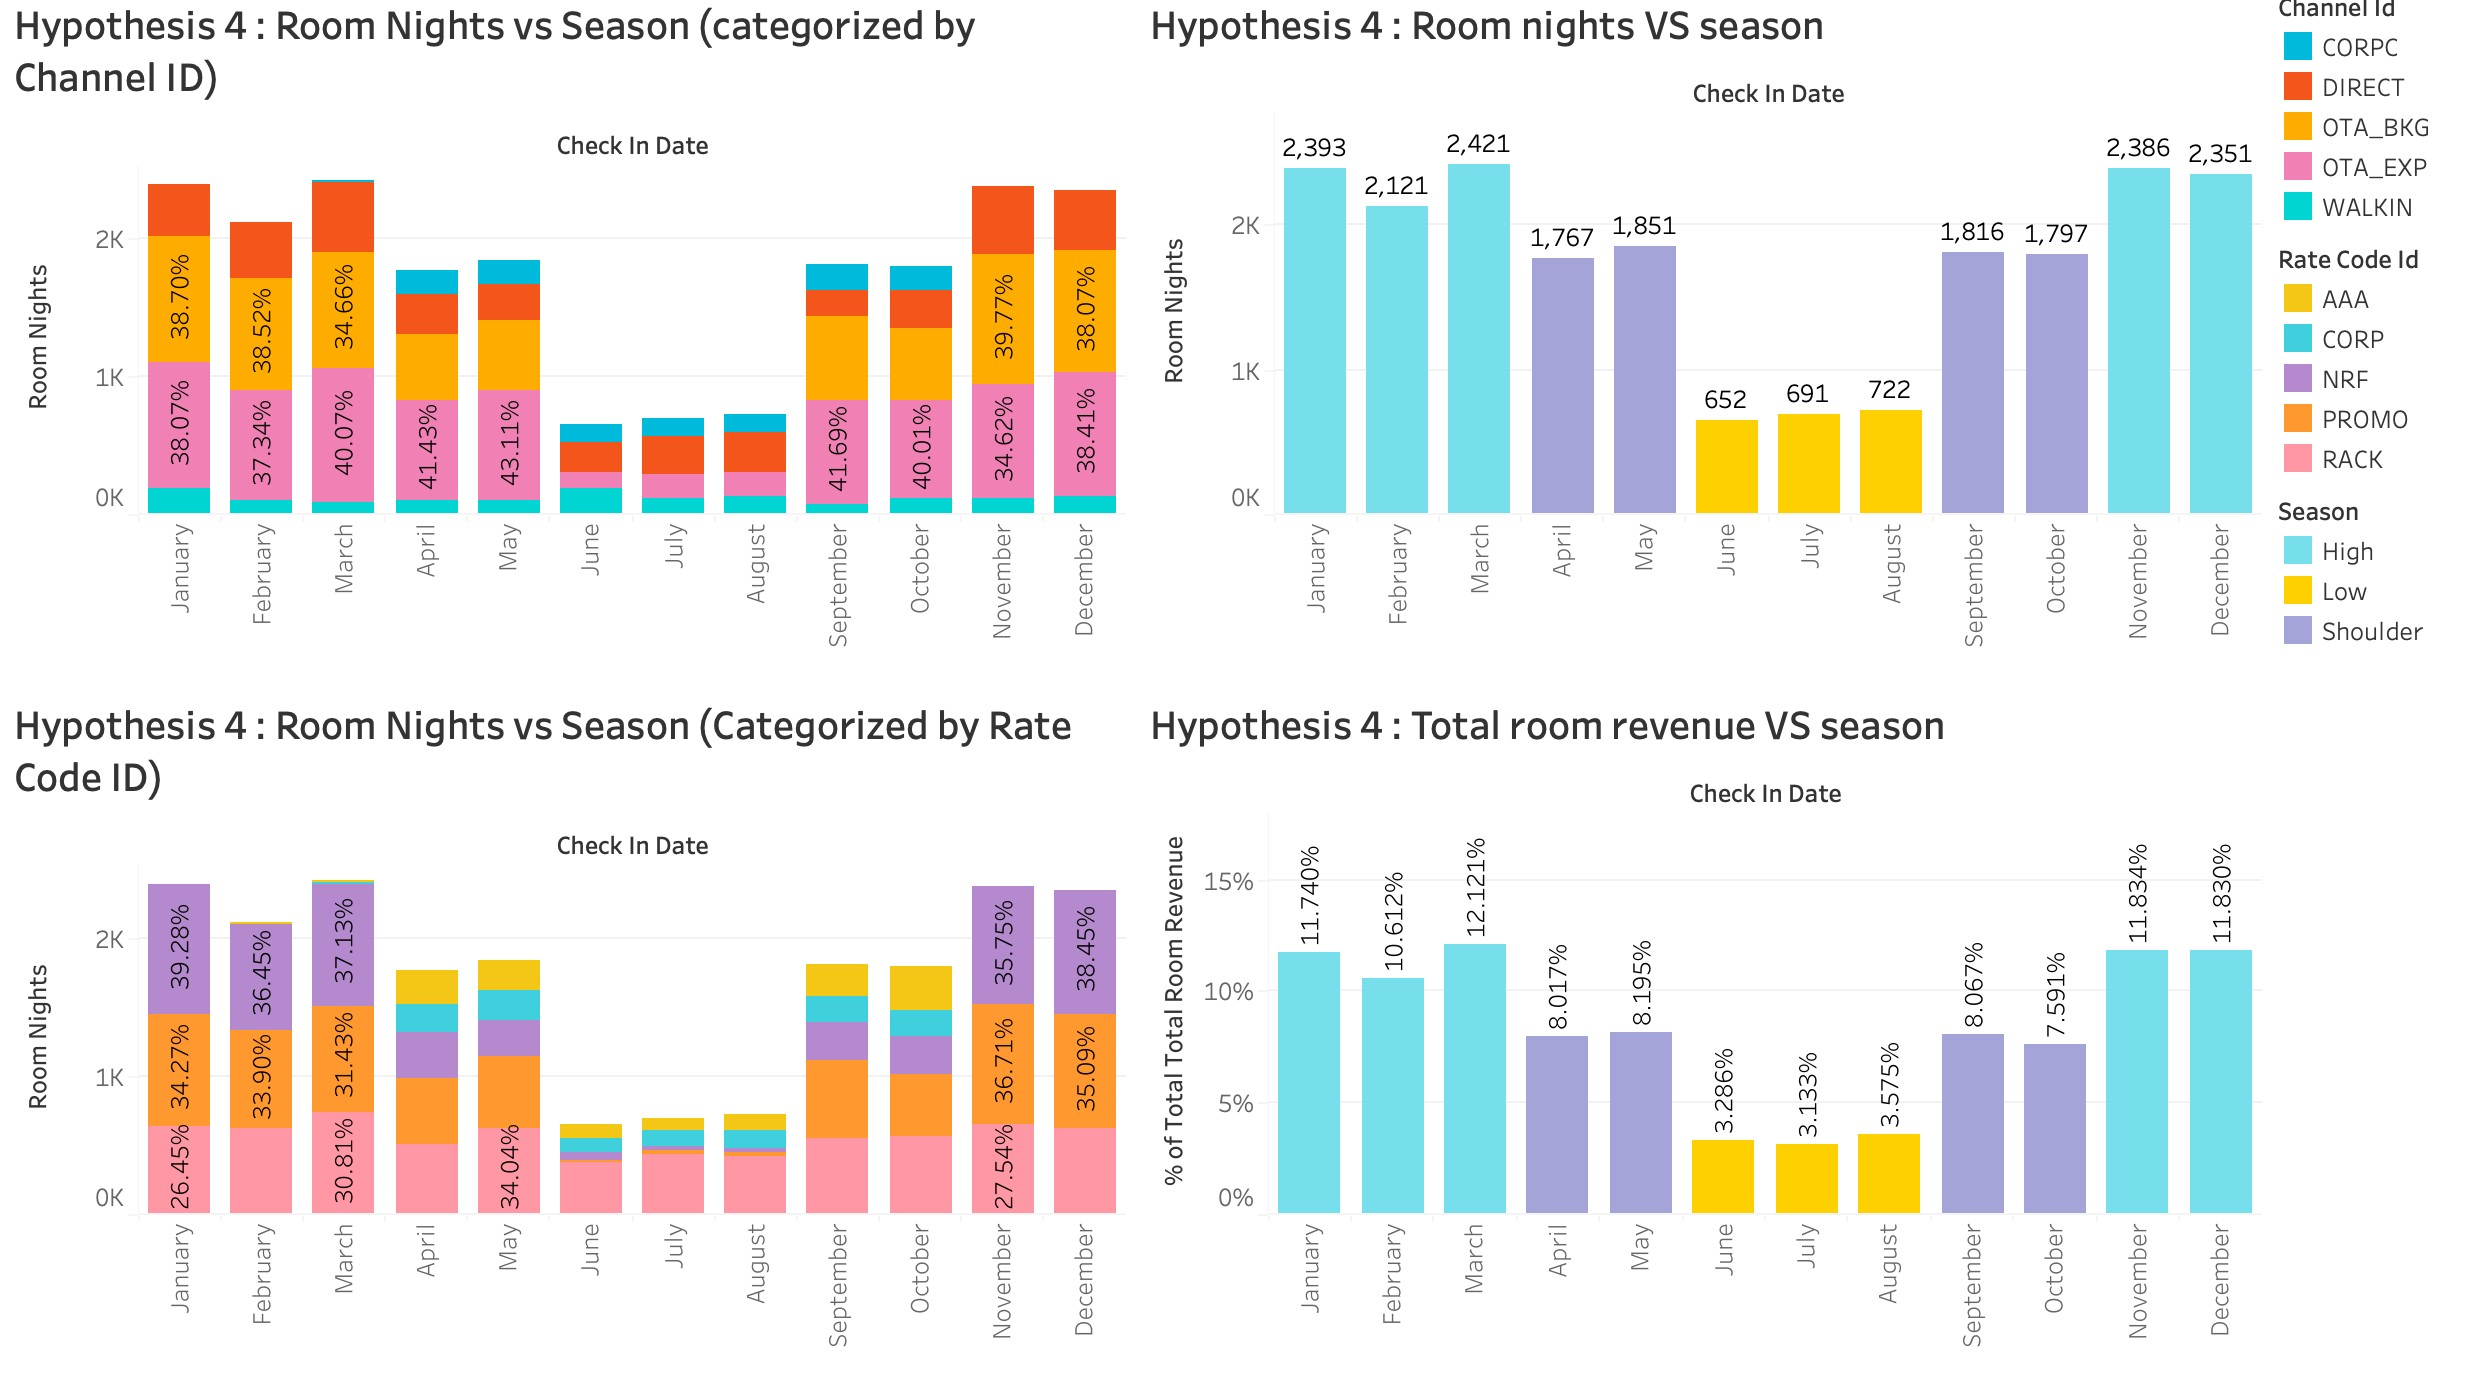
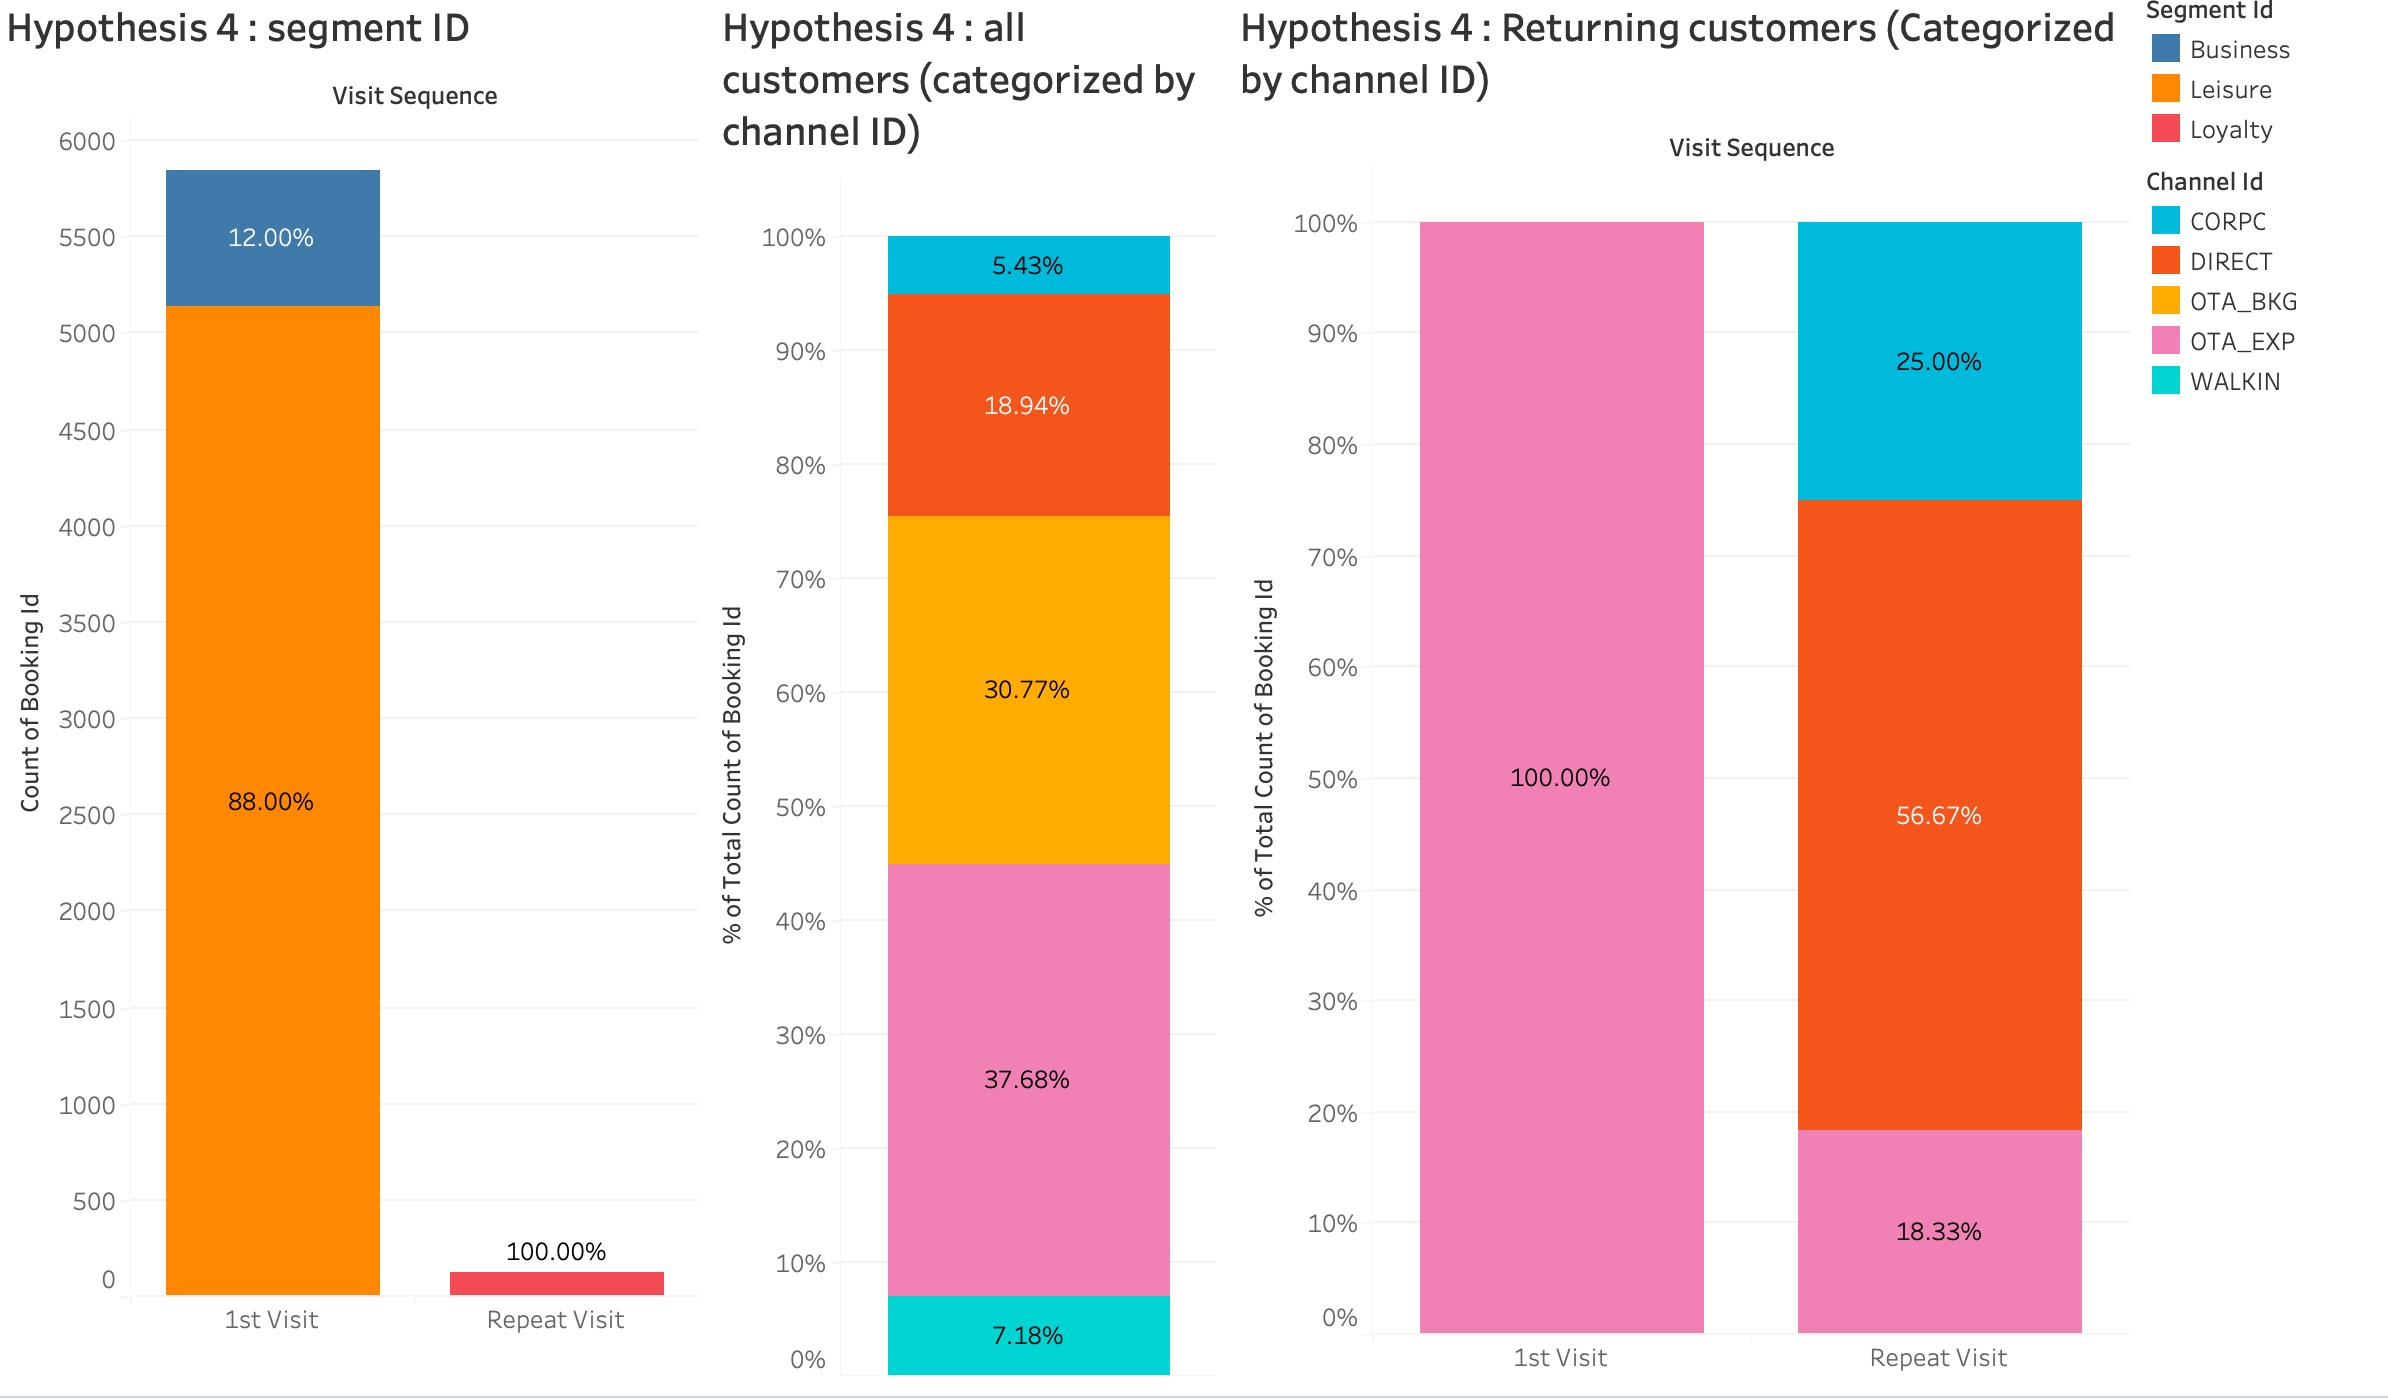
ปรับเนื้อหาบางส่วน

diff --git a/README.md b/README.md
@@ -182,13 +182,12 @@ T (Time-bound) : กำหนดการเห็นผลชัดเจนภ
 ## 3. คำถามการวิจัยและสมมติฐาน (Research Questions & Hypothesis)
 **Hypothesis 1 : The Volume trap** : ระยะเวลาการจองห้องมีผลต่อรายได้หรือไม่
 
-**Hypothesis 2 : The Suite Gap** : การตั้งราคาห้องที่แข็งเกินไป ส่งผลต่อการเข้าพักแต่ละประเภทห้องหรือไม่
+**Hypothesis 2 : Pricing Inefficiency** : การกระตุ้นโปรโมชั่นและช่องทางเลือกในการจองห้องพักส่งผลต่อ ADR ของวันธรรมดาและวันหยุดสุดสัปดาห์หรือไม่ ?
 
-**Hypothesis 3 : Pricing Inefficiency** : โการปล่อยโปรโมชันเสรีและการไม่ควบคุมช่องทางการจอง ส่งผลต่อการเติบโตของ ADR ในช่วงวันหยุดสุดสัปดาห์ (Weekend) เมื่อเทียบกับวันธรรมดา (Weekday) หรือไม่
 
-**Hypothesis 4 : The Seasonality Illusion** :  ฤดูกาลมีผลต่อยอดการเข้าพักและรายได้หรือไม่
+**Hypothesis 3 : The Seasonality Illusion** :  ฤดูกาลมีผลต่อยอดการเข้าพักและรายได้หรือไม่
 
-**Hypothesis 5 : Royalty Leak** :  ลูกค้าเก่ามักจองห้องผ่าน OTA เพื่อลดค่าใช้จ่ายจริงหรือไม่
+**Hypothesis 4 : Royalty Leak** :  ลูกค้าเก่ามักจองห้องผ่าน OTA เพื่อลดค่าใช้จ่ายจริงหรือไม่
 
 ## 4. ชุดข้อมูลและตัวแปรที่ใช้ (Dataset & Features)
 * จำนวนแถวข้อมูล: 5654 แถว
@@ -254,29 +253,23 @@ T (Time-bound) : กำหนดการเห็นผลชัดเจนภ
 
 ### ตัวแปรเป้าหมาย (Target Variable)
 **Hypothesis 1 : The Volume trap**  
-**ตัวแปรต้น :**  
-Net Revenue : รายได้สุทธิหลังหักค่าคอมมิชชัน (Total Room Revenue - Commission Cost)   
-Commission Cost : ต้นทุนค่าคอมมิชชันที่จ่ายให้   OTA Revenue per Booking : รายได้ต่อการจองหนึ่งครั้ง   
-ADR by Lead Time Group : ราคาเฉลี่ยที่ได้ตามระยะเวลาการจอง (0-14 วัน vs 60+ วัน)  
+**ตัวแปร :**  
+Revenue per Booking : รายได้ต่อการจองหนึ่งครั้ง ADR by Lead Time 
+Group : ราคาเฉลี่ยที่ได้ตามระยะเวลาการจอง (0-14 วัน vs 60+ วัน) 
 
-**Hypothesis 2 : The Suite Gap**  
-**ตัวแปรต้น :**   
-Occupancy Rate (rt-03) : อัตราการเข้าพักเฉพาะของห้องประเภทสวีท  
-Rate Code Distribution: สัดส่วนการใช้ราคา RACK เทียบกับ PROMO สำหรับห้องสวีท  
-
-
-**Hypothesis 3 Pricing Inefficiency**   
-**ตัวแปรต้น :**  
+**Hypothesis 2 Pricing Inefficiency**   
+**ตัวแปร :**  
 ADR (Weekend vs Weekday) : เปรียบเทียบราคาเฉลี่ยต่อห้องระหว่างวันธรรมดาและวันหยุด  
 Revenue Opportunity Loss: มูลค่ารายได้ที่หายไปจากการไม่ปรับราคา  
 
-**Hypothesis 4 The Seasonality Illusion**  
-**ตัวแปรต้น :**   
+
+**Hypothesis 3 The Seasonality Illusion**  
+**ตัวแปร :**   
 Occupancy Rate by Season: อัตราการเข้าพักแยกตามหน้า High และ Low Season  
 Yield Percentage: ประสิทธิภาพการทำกำไรในแต่ละเดือน  
 
-**Hypothesis 5 Loyalty Leak**  
-**ตัวแปรต้น :**   
+**Hypothesis 4 Loyalty Leak**  
+**ตัวแปร :**   
 Visit Sequence : การเข้าพักของลูกค้าเก่า  
 
 ## 5. ระเบียบวิธีวิจัย (Methodology)  
@@ -312,74 +305,34 @@ Visit Sequence : การเข้าพักของลูกค้าเก
 
 **วิเคราะห์สมมติฐานข้อที่ 1 ปริมาณการจองลวงตา (The Volume Trap)  ระยะเวลาการจองห้องมีผลต่อรายได้หรือไม่**
 
-<img src="./Images/dashboard1-1.png" width="1920" height="1020">  
-จากกราฟ พบว่าโรงแรมพึ่งพาช่องทาง OTA_BKG, OTA_EXP และ CORPC สูงถึง 73.88% (โดยเป็น OTA 68.5%) ขณะที่ช่องทางที่โรงแรมได้รับรายได้เต็มจำนวน ได้แก่ Direct และ Walk-in มีสัดส่วนรวมเพียง 26.12% เท่านั้น
+<img src="./Images/dashboard1.jpg" width="1920" height="1020">  
 
-แม้ OTA จะเป็นช่องทางหลักที่สร้างรายได้สูงตามกราฟ Total Room Revenue แต่ก็มาพร้อมต้นทุนค่า Commission ที่สูง ส่งผลให้โรงแรมสูญเสียรายได้รวมถึง 293,137 ดอลลาร์
+จากกราฟสามารถวิเคราะห์สัดส่วนการจอง (Room Nights) พบว่าโรงแรมตกอยู่ในสภาวะพึ่งพาตัวกลางสูงเกินไป โดยที่ช่องทาง OTA สัดส่วนการจองอยู่ที่ 68.45% และหากรวม CORPC จะเป็น 73.88% Direct & Walk-in ที่เป็นช่องทางที่ทำกำไรสูงสุด มีสัดส่วนเพียง 26.12% ทำให้เราทราบได้ว่าถึงช่องทาง OTA_EXP จะสร้างรายได้รวมอยู่ที่ $870,723$ แต่ต้องจ่ายค่า Commission สูงถึง $156,730$ (คิดเป็นเกือบ 18%) ทำให้รายได้สุทธิลดลง และความสัมพันธ์ระหว่าง Lead Time กับราคา (ADR)
 
-เมื่อเราดูสัดส่วนการจองห้องพัก (Room Nights) ที่แบ่งตามระยะเวลาการจองล่วงหน้า (Lead Time Groups) กราฟแสดงให้เห็นถึงการแบ่งแยกพฤติกรรม
-- กลุ่มจองล่วงหน้านาน (60+ Days) : ส่วนใหญ่จะจองผ่านทาง OTA ทั้งหมด แบ่งเป็น OTA_BKG (สีเหลือง) 50.55% และ OTA_EXP (สีชมพู) 49.45%
-- กลุ่มจองระยะกลาง (15-60 Days) : ฝั่ง OTA ก็ยังคงเป็นสัดส่วนใหญ่ที่สุด(เกิน 50-70%)
-- กลุ่มจองระยะกระชั้นชิด (0-14 Days) : ในช่วง 8-14 Days ลูกค้า Direct มีการจองอยู่ที่ 72.32% และในช่วง 0-7 Days จะเป็นกลุ่ม Direct 58.74% คู่กับ Walk-in 37.12%
+- Early Birds get the lowest price: กลุ่มที่จองล่วงหน้านาน (15-60+ วัน) มีราคาเฉลี่ย (ADR) ต่ำที่สุดอยู่ที่ประมาณ $94.73 - $100.58
 
-<img src="./Images/dashboard1-2.png" width="1920" height="1020">
+- Last Minute Premium: กลุ่มที่จองล่วงหน้าสั้น (0-14 วัน) ยินดีจ่ายแพงกว่า โดย ADR สูงถึง $121.98 ในช่วง 0-7 วันก่อนเข้าพัก
 
-กราฟเส้นแสดงให้เห็นถึงการเปลี่ยนแปลงของราคาเฉลี่ย (ADR)ตามระยะเวลาการจองล่วงหน้า 
-- กลุ่มจองล่วงหน้านาน (15 ถึง 60+ Days) : กราฟจะกองอยู่ในระดับต่ำ โดย ADR อยู่แค่ช่วง 94.73 - 100.58 ดอลลาร์
-- กลุ่มจองระยะกระชั้นชิด (0 ถึง 14 Days) : เมื่อขยับมาที่ช่วง 8-14 วัน กราฟพุ่งชันขึ้นอย่างเห็นได้ชัด 116.21 ดอลลาร์และไปแตะจุดสูงสุดที่ช่วง 0-7 วัน ด้วย ADR ถึง 121.98 ดอลลาร์
-นอกจากนี้ ลูกค้าส่วนใหญ่เลือกห้อง rt-01 มากกว่า rt-03 อย่างชัดเจน
+- กลุ่มที่จ่ายแพง (Direct/Walk-in) มักจะจองในระยะกระชั้นชิด แต่ห้องพักส่วนใหญ่กลับถูก ขายหมดไปล่วงหน้าผ่าน OTA ในราคาที่ต่ำกว่าไปแล้ว
 
-ทั้งนี้ผู้จัดทำจึงได้เสนอแนวทางแก้ไขปัญหานี้ หากต้องการที่จะเพิ่มยอดขาย ทางโรงแรมควรที่จะกันห้องไว้สำหรับ direct และ walk in ทำส่วนลดเฉพาะเว็บไซต์โรงแรม (เช่น -5%) ให้สิทธิพิเศษ: Late check-out, Free breakfast และลดโควตาห้องที่ขายบน 3rd party ลงเพื่อลดราคาสำหรับการจ่ายค่า commission
+ทั้งนี้ผู้จัดทำจึงได้เสนอแนวทางแก้ไขปัญหานี้ หากต้องการที่จะเพิ่มยอดขาย ทางโรงแรมควรที่จะกันห้องไว้สำหรับ direct และ walk in ทำส่วนลดเฉพาะเว็บไซต์โรงแรม (เช่น -5%) ให้สิทธิพิเศษ Late check-out, Free breakfast และลดโควตาห้องที่ขายบน 3rd party ลงเพื่อลดราคาสำหรับการจ่ายค่า commission
 
-**วิเคราะห์สมมติฐานข้อที่ 2 ช่องว่างของห้องพักระดับบน (The Suite Gap)
-การตั้งราคาห้องที่แข็งเกินไป ส่งผลต่อการเข้าพักแต่ละประเภทห้องหรือไม่**
-
-<img src="./Images/dashboard2.png" width="1920" height="1020">
-
-กราฟแสดงจำนวนห้องทั้งหมดที่ขายออก (Room nights) แบ่งตามประเภทห้อง
-
- - rt-01 (ห้องประเภทเริ่มต้น): มีอัตราการเข้าพักสูงสุดที่ 64.14%
- - rt-02 (ห้องระดับกลาง): อัตราการเข้าพักลดลงมาอยู่ที่ 30.21%
- - rt-03 (ห้องสวีท): อัตราการเข้าพักต่ำที่สุด ตกหลุมลงไปเหลือเพียง 5.65%
-
-กราฟแสดงอัตราการเข้าพัก (Occupancy Rate) แบ่งตามประเภทห้อง
-
- - rt-01 (ห้องประเภทเริ่มต้น): มีอัตราการเข้าพักสูงสุดที่ 45.79%
- - rt-02 (ห้องระดับกลาง): อัตราการเข้าพักลดลงมาอยู่ที่ 22.82%
- - rt-03 (ห้องสวีท): อัตราการเข้าพักต่ำที่สุด ตกหลุมลงไปเหลือเพียง 7.09%
-
-จากการตรวจสอบสมมติฐานนั้นทำให้เราได้ทราบว่าอัตราการเข้าพักของห้องสวีท (rt-03) อยู่ในระดับต่ำมาก (น้อยกว่า 10%) 
-
-เมื่อเปรียบเทียบสัดส่วนของ Rate Code ที่ขายได้ในแต่ละประเภทห้อง (Room Type) 
-
- - ห้อง single และห้อง deluxe (rt-01 & rt-02)
-   มีการกระจายตัวของเรตราคาที่สมดุล โดยมีสัดส่วนของ PROMO (สีส้ม) และ
-   RACK (สีชมพู) อยู่ที่ประมาณ 29-32%
- - ห้อง suite (rt-03) มีความผิดปกติอย่างชัดเจน สัดส่วนกว่า 54.64%
-   ถูกขายในราคา RACK (ราคาเต็ม) รองลงมาคือ NRF (35.33%) และไม่มีการใช้
-   PROMO
-   
-กราฟนี้พิสูจน์ว่าการวางโครงสร้างเรทราคาที่แข็งเกินไป และการไม่ใช้ Promotion ทำให้ลูกค้าถูกบังคับให้ต้องจ่ายในราคาเต็ม (RACK) หรือแบบซื้อขาด (NRF) เท่านั้น
-
-ทั้งนี้ผู้จัดทำจึงได้เสนอแนวทางแก้ไขปัญหานี้ หากทางโรงแรมเพิ่มโปรโมชันสำหรับห้องพักประเภท rt-03 เพื่อเพิ่มความน่าสนใจ และเป็นการกระตุ้นให้ลูกค้าสนใจหากว่าถ้าจ่ายห้องพักประเภท rt-02 เพิ่มเงินขึ้นอีก 15-20% เพื่ออัพเกรดห้อง พร้อมบริการเสริม อาทิเช่น ฟรีอาหารเช้า, บริการสปา, บริการรถรับ-ส่งสนามบิน หรือบริการซักรีด เป็นต้น
-
-
-**วิเคราะห์สมมติฐานข้อที่ 3 ความไร้ประสิทธิภาพในการตั้งราคาช่วงสุดสัปดาห์ (Pricing Inefficiency)
+**วิเคราะห์สมมติฐานข้อที่ 2 ความไร้ประสิทธิภาพในการตั้งราคาช่วงสุดสัปดาห์ (Pricing Inefficiency)
 การปล่อยโปรโมชันเสรีและการไม่ควบคุมช่องทางการจอง ส่งผลต่อการเติบโตของ ADR ในช่วงวันหยุดสุดสัปดาห์ (Weekend) เมื่อเทียบกับวันธรรมดา (Weekday) หรือไม่** 
 
-<img src="./Images/dashboard3-1.jpg" width="1920" height="1020">
-<img src="./Images/dashboard3-2.jpg" width="1920" height="1020">
+<img src="./Images/dashboard2-1.jpg" width="1920" height="1020">
+<img src="./Images/dashboard2-2.jpg" width="1920" height="1020">
 
 จากกราฟนี้เป็นการพูดถึงรายได้เฉลี่ยต่อวัน (Average Daily Rate) ในช่วงวันธรรมดาอยู่ที่ 100 ดอลลาร์ และวันหยุดสุดสัปดาห์อยู่ที่ 108 ดอลลาร์ ซึ่งหมายความว่าทางโรงแรมสามารถทำยอดขายได้เพิ่มจากวันธรรมดาเพียงแค่ 8.16% เท่านั้น ซึ่งตรงกับสมมติฐาน และจากยอดความต้องการ ของวันธรรมดาและวันหยุดสุดสัปดาห์ 71.42 และ 71.34 ตามลำดับ พบว่ามีความต้องการในอัตราที่ใกล้เคียงกันดังนั้นจึงไม่สามารถรองรับสมมติฐานเกี่ยวกับความต้องการที่พุ่งขึ้นสูงในช่วงวันหยุดสุดสัปดาห์ได้ จึงดูการใช้ code ID และ channel ID แทน และพบว่าในช่วงวันหยุดสุดสัปดาห์ มีลูกค้าเลือกจ่ายเต็มเพียงแค่ 31.55% และมีลูกค้าที่จองผ่าน OTA รวม 70.25 ทำให้เสียรายได้ในช่วงวันหยุดสุดสัปดาห์ไป
 
 จากกราฟทั้งสาม สามารถสรุปได้ว่า Demand ระหว่างวันธรรมดาและวันหยุดมีระดับใกล้เคียงกัน จึงไม่ใช่ปัจจัยหลักที่ทำให้รายได้แตกต่างกัน ผู้จัดทำจึงวิเคราะห์เพิ่มเติมและพบว่า รายได้ส่วนหนึ่งสูญเสียไปจากค่า Commission ของ OTA และการใช้โปรโมชั่นในระดับสูง
 
-ดังนั้น แนวทางที่ควรพิจารณาคือ ลดสัดส่วนการขายผ่าน OTA และควบคุมการใช้โปรโมชั่นให้เหมาะสม เพื่อช่วยเพิ่มประสิทธิภาพด้านราคาและรายได้รวมของโรงแรม
+ดังนั้น แนวทางที่ควรพิจารณาคือ หากสามารถปรับสัดส่วนการใช้โปรโมชันในช่วงวันหยุดให้มีการปล่อยโปรโมชันน้อยลง และเน้นการขายห้องผ่านช่องทาง direct/walkin ของทั้งวันธรรมดาและวันหยุดสุดสัปดาห์แทนเพื่อเพิ่มกำไรแทนที่การจ่ายค่า commission 
 
-**วิเคราะห์สมมติฐานข้อที่ 4 กำไรที่สวนทางกับช่วงฤดูกาล (The Seasonality Illusion)
+**วิเคราะห์สมมติฐานข้อที่ 3 กำไรที่สวนทางกับช่วงฤดูกาล (The Seasonality Illusion)
 ฤดูกาลมีผลต่อยอดการเข้าพักและรายได้หรือไม่** 
 
-<img src="./Images/dashboard4.jpg" width="1920" height="1020">
+<img src="./Images/dashboard3.jpg" width="1920" height="1020">
 
 จากแดชบอร์ดจะพบว่าช่วง high season รวมถึงช่วงคาบเกี่ยวอย่าง shoulder จะมีการเข้าพักที่สูงลดหลั่นตามกันมา และทิ้ง gap ระยะห่างของ low season ไว้เยอะ และยอดขายของ high season รวมถึงได้ 58.13 ซึ่งถือว่าอยู่ในเกณฑ์ที่ดี แต่เมื่อดูตัวแปร channel ID และ rate code ID จะพบว่าช่วง high season จะมีอัตราการปล่อยห้องให้จองผ่าน OTA สูงมาก และมีอัตราการใช้ Promotion ที่สูง แต่ในทางกลับกันช่วง low season ที่มียอดขายรวมกันเพียงแค่ 9.99% ที่แทบไม่มีการปล่อยให้จองห้องพักผ่าน OTA หรือการกระตุ้นยอดขายจากการใช้ Promotion
 
@@ -398,50 +351,44 @@ Visit Sequence : การเข้าพักของลูกค้าเก
    เพื่อกระตุ้นการตัดสินใจ
 
 
-**วิเคราะห์สมมติฐานข้อที่ 5 การรับมาใช้บริการซ้ำที่น้อยลง(The Loyalty Leak)
+**วิเคราะห์สมมติฐานข้อที่ 4 การรับมาใช้บริการซ้ำที่น้อยลง(The Loyalty Leak)
 ลูกค้าเก่ามักจองห้องผ่าน OTA เพื่อลดค่าใช้จ่ายจริงหรือไม่** 
 
-<img src="./Images/dashboard5.jpg" width="1920" height="1020">
+<img src="./Images/dashboard4.jpg" width="1920" height="1020">
 
 จากกราฟพบว่าลูกค้าที่กลับมาใช้บริการอีกครั้งน้อยมาก คิดเป็นแค่ 2% เท่านั้น โดยสามารถตีความได้ว่าจากการใช้บริการครั้งแรก ลูกค้าเป็นลูกค้าประเภท Leisure 88% และ 12% เมื่อผนวกกับข้อมูลจากข้อสันนิษฐานก่อนหน้า จึงสามารถสรุปได้ว่าลูกค้าส่วนใหญ่เป็นชาวต่างชาติ จากลูกค้าส่วนใหญ่มีพฤติกรรมชอบจองห้องล่วงหน้านาน และยอด demand ของวันธรรมดา และวันหยุดสุดสัปดาห์ใกล้เคียงกัน
 
 และจากข้อสันนิษฐานว่าลูกค้าเก่าจองผ่านรูปแบบ OTA เพื่อลดค่าใช้จ่าย ถือว่าไม่เป็นความจริง แต่กลับกันจากการจอง OTA 100% ในครั้งแรก กลับเหลือเพียง 18.33% ในการใช้บริการครั้งที่สอง ถือว่าทางโรงแรมประสบความสำเร็จในการดึงดูดลูกค้าเพื่อจองห้องพักผ่านโรงแรมโดยตรง
 
-ทั้งนี้ผู้จัดทำจึงได้เสนอแนวทางแก้ไขปัญหานี้ สร้างระบบ membership สะสมแต้มเพื่อดีงดูดให้ลูกค้าจากกลับมาใช้บริการ และทำ personalized offer ผ่านช่องทาง email
+ทั้งนี้ผู้จัดทำจึงได้เสนอแนวทางแก้ไขปัญหา โดยการสร้างระบบ membership สะสมแต้มเพื่อดีงดูดให้ลูกค้าจากกลับมาใช้บริการ และทำ personalized offer ผ่านช่องทาง Email
 
 **เมทริกซ์สหสัมพันธ์ของการทำกำไรของโรงแรมและตัวแปรจากทั้ง 5 สมมติฐาน**
 
 <img src="./Images/correlation-hotel.png" width="1920" height="1020">
 
-จากกราฟวิเคราะห์ความสัมพันธ์ (Correlation) แสดงให้เห็นถึงความเชื่อมโยงของปัจจัยต่าง ๆ ที่ส่งผลกระทบต่อโครงสร้างรายได้ของโรงแรมที่ช่วยยืนยันสมมติฐานการวิเคราะห์
-ความสัมพันธ์ระหว่างระยะเวลาการจองล่วงหน้า (Lead Time) และอัตราค่าคอมมิชชัน (Commission Rate) มีค่าสหสัมพันธ์เชิงบวกสูงที่สุดถึง 0.66  ซึ่งคือสนับสนุนสมมติฐานข้อที่ 1 จากข้อมูลนี้ชี้ให้เห็นพฤติกรรมของกลุ่มลูกค้า OTA ซึ่งเป็นช่องทางที่โรงแรมต้องเสียค่าคอมมิชชันสูง มักจะเป็นกลุ่มที่ทำการจองห้องพักล่วงหน้าเป็นเวลานาน พฤติกรรมดังกล่าวก่อให้เกิดปัญหา Displacement Effect โดยห้องพักถูกกวาดซื้อไปในราคาถูกจนเต็มความจุ ทำให้โรงแรมสูญเสียโอกาสในการขายห้องให้กับกลุ่มลูกค้าที่พร้อมจ่ายในราคาเต็ม (Direct/Walk-in) ซึ่งมักจะตัดสินใจจองในช่วงเวลาที่กระชั้นชิดกว่า และสามารถพิสูจน์ได้ว่าสมมติฐานข้อที่ 1 (ปริมาณการจองลวงตา หรือ The Volume Trap) โดยพบว่าความสัมพันธ์ระหว่างรายได้รวม (Total Revenue) และต้นทุนค่าคอมมิชชัน (Commission Cost) มีทิศทางแปรผันตามกันสูงถึง 0.71 สิ่งนี้สะท้อนให้เห็นถึงกับดักทางธุรกิจที่ว่า ยอดการจองและรายได้รวมที่ดูเหมือนจะสูงขึ้น กลับลากเอาต้นทุนค่าคอมมิชชันให้พุ่งสูงตามเป็นเงาตามตัว ทำให้กำไรสุทธิไม่ได้เติบโตตามยอดขายอย่างที่ควรจะเป็น
+จากกราฟวิเคราะห์ความสัมพันธ์ แสดงให้เห็นถึงความเชื่อมโยงของปัจจัยต่าง ๆ ที่ส่งผลกระทบต่อโครงสร้างรายได้ของโรงแรมที่ช่วยยืนยันสมมติฐานการวิเคราะห์
+- ความสัมพันธ์ระหว่าง total_room_revenue และ net_revenue อยู่ที่ 0.99 เมื่อพิจารณาประกอบกับค่า commission_rate ที่มีค่าความสัมพันธ์ติดลบกับ net_revenue (-0.16) ทำให้เราทราบได้ว่าสัดส่วนค่าคอมมิชชันสูงขึ้น รายได้สุทธิจะยิ่งถูกลงมา 
+- ความสัมพันธ์ระหว่าง total_room_revenue และ commission_cost อยู่ที่ 0.71 บอกเราว่าโรงแรมมักพึ่งแต่การขายห้องผ่านตัวกลาง ยิ่งโรงแรมพยายามดันยอดจองให้สูงขึ้น  ต้นทุนค่าคอมมิชชันก็พุ่งสูงขึ้นตาม 
+- ความสัมพันธ์ระหว่าง lead_time_days และ commission_rate อยู่ที่ 0.66 ซึ่งเป็นค่าความสัมพันธ์เชิงบวกที่ค่อนข้างสูง ยิ่งลูกค้าจองล่วงหน้านานเท่าไหร่ มีแนวโน้มสูงมากที่การจองนั้นจะผ่านช่องทางที่มีค่าคอมมิชชันสูง (OTAs) สอดคล้องกับพฤติกรรมที่เราวิเคราะห์ไว้ก่อนหน้านี้ว่า กลุ่ม Early Bird มักเป็นกลุ่มที่จองผ่าน OTA ในขณะที่ลูกค้า Direct/Walk-in มักจองในระยะสั้น ซึ่งการจองระยะสั้นมีค่าความสัมพันธ์กับค่าคอมมิชชันที่ต่ำกว่า (สังเกตจากค่าติดลบอ่อนๆ ระหว่าง Lead Time กับ ADR ที่ -0.073)
 
-นอกจากนี้ เมื่อพิจารณาผลกระทบที่มีต่อรายได้สุทธิ พบว่า Lead Time มีความสัมพันธ์เชิงลบกับรายได้สุทธิ (Net Revenue) อยู่ที่ -0.11 ซึ่งหมายความว่ายิ่งมีการจองล่วงหน้านานเท่าใด โรงแรมก็ยิ่งได้รับรายได้สุทธิน้อยลงเท่านั้น ความเป็นจริงนี้สอดคล้องกับค่าความสัมพันธ์ระหว่าง Commission Rate และ Net Revenue (-0.16) แม้ตัวเลขความสัมพันธ์ทางลบม่ค่าต่ำ แต่ส่งผลกระทบอย่างมาก เมื่อนำไปเทียบกับค่าความสัมพันธ์ระหว่างรายได้รวมและรายได้สุทธิ (Total Revenue กับ Net Revenue) ที่สูงถึง 0.99 จึงเป็นบทสรุปได้ว่า ปัจจัยหลักที่รั้งรายได้สุทธิของโรงแรมลงมา และกัดกินผลกำไรจากการดำเนินงานโดยตรง ก็คือ ภาระค่าคอมมิชชันที่สูงเกินไป
+ยิ่งเป็นการเน้นว่าปัญหาที่โรงแรมมีรายได้แต่ขาดการทำกำไรนั้นเกิดมาจากการที่เรามักทำการตลาดผ่านตัวกลางทำให้เสียค่าคอมมิชชันในราคาที่สูงเกินไป
+
+
 
 ## 6. Business Insights
 
 **วิเคราะห์สมมติฐานข้อที่ 1 ปริมาณการจองลวงตา (The Volume Trap)**  
 หลังจากการวิเคราะห์เราได้พบว่าโรงแรมพึ่งพาช่องทาง OTA_BKG, OTA_EXP และ CORPC สูงถึง 73.88% (โดยเป็น OTA 68.5%) ขณะที่ช่องทางที่โรงแรมได้รับรายได้เต็มจำนวน ได้แก่ Direct และ Walk-in มีสัดส่วนรวมเพียง 26.12% เท่านั้น แม้ว่า OTA จะเป็นช่องทางหลักที่สร้างรายได้สูงตามกราฟ Total Room Revenue แต่ก็มาพร้อมต้นทุนค่า Commission ที่สูง ส่งผลให้โรงแรมสูญเสียรายได้รวมถึง 293,137 ดอลลาร์ นอกจากนี้ ลูกค้าส่วนใหญ่เลือกห้อง rt-01 มากกว่า rt-03 อย่างชัดเจน
 
-**วิเคราะห์สมมติฐานข้อที่ 2 ช่องว่างของห้องพักระดับบน (The Suite Gap)**  
-จากการตรวจสอบสมมติฐานนั้นทำให้เราได้ทราบว่าอัตราการเข้าพักของห้องสวีท (rt-03) อยู่ในระดับต่ำมาก (น้อยกว่า 10%)
-เมื่อเปรียบเทียบสัดส่วนของ Rate Code ที่ขายได้ในแต่ละประเภทห้อง (Room Type)
+**วิเคราะห์สมมติฐานข้อที่ 2 ความไร้ประสิทธิภาพในการตั้งราคาช่วงสุดสัปดาห์ (Pricing Inefficiency)**   
+โดยในช่วงวันหยุดสุดสัปดาห์มักมีความต้องการมากกว่าวันธรรมดาเสมอ แต่จากยอดความต้องการ ของวันธรรมดาและวันหยุดสุดสัปดาห์ 71.42 และ 71.34 ตามลำดับ พบว่ามีความต้องการในอัตราที่ใกล้เคียงกันดังนั้นจึงไม่สามารถรองรับสมมติฐานเกี่ยวกับความต้องการที่พุ่งขึ้นสูงในช่วงวันหยุดสุดสัปดาห์ได้ จากกราฟก่อนหน้าที่เป็นการพูดถึงรายได้เฉลี่ยต่อวัน (Average Daily Rate) ในช่วงวันธรรมดาอยู่ที่ 100 ดอลลาร์ และวันหยุดสุดสัปดาห์อยู่ที่ 108 ดอลลาร์ ซึ่งหมายความว่าทางโรงแรมสามารถทำยอดขายได้เพิ่มจากวันธรรมดาเพียงแค่ 8.16% เท่านั้น  และเมื่อดู Code rate id มีการใช้ promo ของวันหยุดสุดสัปดาห์ 30.82% และวันธรรมดา 27.74 % เมื่อเทียบกับ demand ของทั้งสองที่สูงมาก ทำให้เกิดการสูญเสียรายได้ไปโดยใช่เหตุ นอกจากนี้ยังมีการจองผ่าน OTA กว่า 60% ทำให้มีต้นทุนเพิ่มมากขึ้น 
 
--   ห้อง single และห้อง deluxe (rt-01 & rt-02) มีการกระจายตัวของเรตราคาที่สมดุล
--   ห้อง suite (rt-03) มีความผิดปกติอย่างชัดเจน สัดส่วนกว่า 54.64% ถูกขายในราคา RACK (ราคาเต็ม) รองลงมาคือ NRF (35.33%) และไม่มีการใช้ PROMO
+**วิเคราะห์สมมติฐานข้อที่ 3 กำไรที่สวนทางกับช่วงฤดูกาล (The Seasonality Illusion)**   
+จะพบว่าช่วง high season รวมถึงช่วงคาบเกี่ยวอย่าง shoulder จะมีการเข้าพักที่สูงลดหลั่นตามกันมา และทิ้ง gap ระยะห่างของ low season ไว้เยอะ และยอดขายของ high season รวม 58.13% ซึ่งถือว่าอยู่ในเกณฑ์ที่ดี แต่เมื่อดูตัวแปร channel ID และ rate code ID จะพบว่าช่วง high season จะมีอัตราการปล่อยห้องให้จองผ่าน OTA สูงมาก และมีอัตราการใช้ Promotion ที่สูง แต่ในทางกลับกันช่วง low season ที่มียอดขายรวมกันเพียงแค่ 9.99% แต่แทบไม่มีการปล่อยให้จองห้องพักผ่าน OTA หรือการกระตุ้นยอดขายจากการใช้ Promotion
 
-ทำให้พิสูจน์ว่าการวางโครงสร้างเรทราคาที่แข็งเกินไป และการไม่ใช้ Promotion ทำให้ลูกค้าถูกบังคับให้ต้องจ่ายในราคาเต็ม (RACK) หรือแบบซื้อขาด (NRF) เท่านั้น
+**วิเคราะห์สมมติฐานข้อที่ 4 การรับมาใช้บริการซ้ำที่น้อยลง(The Loyalty Leak)**  
+พบว่าลูกค้าเก่าจองผ่านรูปแบบ OTA เพื่อลดค่าใช้จ่าย ถือว่าไม่เป็นความจริง แต่กลับกันจากการจอง OTA 100% ในครั้งแรก กลับเหลือเพียง 18.33% ในการใช้บริการครั้งที่สอง ถือว่าทางโรงแรมประสบความสำเร็จในการดึงดูดลูกค้าเพื่อจองห้องพักผ่านโรงแรมโดยตรง
 
-**วิเคราะห์สมมติฐานข้อที่ 3 ความไร้ประสิทธิภาพในการตั้งราคาช่วงสุดสัปดาห์ (Pricing Inefficiency)**   
-โดยช่วงวันหยุดสุดสัปดาห์มักมีความต้องการมากกว่าวันธรรมดาเสมอ สามารถกล่าวได้ว่ารายได้เฉลี่ยต่อวัน (Average Daily Rate) ในช่วงวันธรรมดาอยู่ที่ 100 ดอลลาร์ และวันหยุดสุดสัปดาห์อยู่ที่ 108 ดอลลาร์ ซึ่งหมายความว่าทางโรงแรมสามารถทำยอดขายได้เพิ่มจากวันธรรมดาเพียงแค่ 8.16% เท่านั้น และจากยอดความต้องการ ของวันธรรมดาและวันหยุดสุดสัปดาห์ 71.42 และ 71.34 ตามลำดับ พบว่ามีความต้องการในอัตราที่ใกล้เคียงกันดังนั้นจึงไม่สามารถรองรับสมมติฐานเกี่ยวกับความต้องการที่พุ่งขึ้นสูงในช่วงวันหยุดสุดสัปดาห์ได้ และเมื่อดู Code rate id มีการใช้ promo ของวันหยุดสุดสัปดาห์ 30.82% และวันธรรมดา 27.74 % เมื่อเทียบกับ demand ของทั้งสองที่สูงมาก ทำให้เกิดการสูญเสียรายได้ไปโดยใช่เหตุ นอกจากนี้ยังมีการจองผ่าน OTA กว่า 60% ทำให้มีต้นทุนเพิ่มมากขึ้น 
-
-**วิเคราะห์สมมติฐานข้อที่ 4 กำไรที่สวนทางกับช่วงฤดูกาล (The Seasonality Illusion)**   
-จะพบว่าช่วง high season รวมถึงช่วงคาบเกี่ยวอย่าง shoulder จะมีการเข้าพักที่สูงลดหลั่นตามกันมา และทิ้ง gap ระยะห่างของ low season ไว้เยอะ และยอดขายของ high season รวมถึงได้ 58.13 ซึ่งถือว่าอยู่ในเกณฑ์ที่ดี แต่เมื่อดูตัวแปร channel ID และ rate code ID จะพบว่าช่วง high season จะมีอัตราการปล่อยห้องให้จองผ่าน OTA สูงมาก และมีอัตราการใช้ Promotion ที่สูง แต่ในทางกลับกันช่วง low season ที่มียอดขายรวมกันเพียงแค่ 9.99% ที่แทบไม่มีการปล่อยให้จองห้องพักผ่าน OTA หรือการกระตุ้นยอดขายจากการใช้ Promotion
-
-**วิเคราะห์สมมติฐานข้อที่ 5 การรับมาใช้บริการซ้ำที่น้อยลง(The Loyalty Leak)**  
-โรงแรมมีอัตราการกลับมาใช้บริการต่ำมาก (Repeat Rate 2%) สะท้อนการพึ่งพาลูกค้าใหม่เป็นหลัก โดยลูกค้าส่วนใหญ่เป็นกลุ่ม Leisure และไม่มี Brand Loyalty อย่างไรก็ตาม โรงแรมสามารถดึงลูกค้าจาก OTA มาจองตรงได้สำเร็จ ซึ่งเป็นโอกาสสำคัญในการลดต้นทุนและเพิ่มกำไร
-
-ดังนั้นควรเน้นไปที่การเพิ่ม Customer Retention เช่น การทำ Membership Program และ Personalized Offer เพื่อกระตุ้นให้ลูกค้ากลับมาใช้บริการและจองตรงมากขึ้น
 
 ### Summary
-ผลการวิเคราะห์ชี้ให้เห็นว่าโรงแรมมีปัญหาหลักด้าน Yield Management ที่ไม่ยืดหยุ่น การมุ่งเน้นเพียงตัวเลข Occupancy อย่างเดียว โดยที่โรงแรมใช้วิธีการตั้งราคาแบบเหมารวม ไม่ควบคุมโควตาช่องทางการขาย และไม่ปรับตัวตามฤดูกาลและพฤติกรรมลูกค้า ทำให้เกิดค่าเสียโอกาสจำนวนมาก
+ผลการวิเคราะห์ชี้ให้เห็นว่าโรงแรมประสบปัญหาด้าน Yield Management ที่ไม่ยืดหยุ่น การตั้งราคาแบบเหมารวม และการพึ่งพาตัวกลางมากเกินไปในช่วงที่ Demand สูง ทำให้เกิดสภาวะมียอดขายแต่ขาดกำไร โรงแรมจำเป็นต้องปรับสมดุลช่องทางการขาย ควบคุมโควตา OTA และใช้ข้อมูลพฤติกรรม Lead Time มากำหนดราคาที่เหมาะสมเพื่อสร้างผลกำไรที่ยั่งยืน ทางผู้ดจัดทำจึงได้เสนอแนวทางการแกัไขปัญหา เพื่อการเพิ่มยอดขาย โดยให้ทางโรงแรมกันห้องขายผ่านช่างทางของโรงแรมโดยตรงเพื่อลดค่าใช้จ่ายในส่วนของค่าคอมมิชชัน ปรับสัดส่วนการใช้โปรโมชันในช่วงวันหยุดเพื่อให้สามารถเป็นช่วงที่โรงแรมทำกำไรเพิ่มได้ และการสมัครสมาชิกกับทางโรงแรมเพื่อรับสิทธิพิเศษเพิ่มขึ้น ทั้งนี้เป็นการแนะแนวทางในการเพิ่มยอดขายในปีถัดไป 